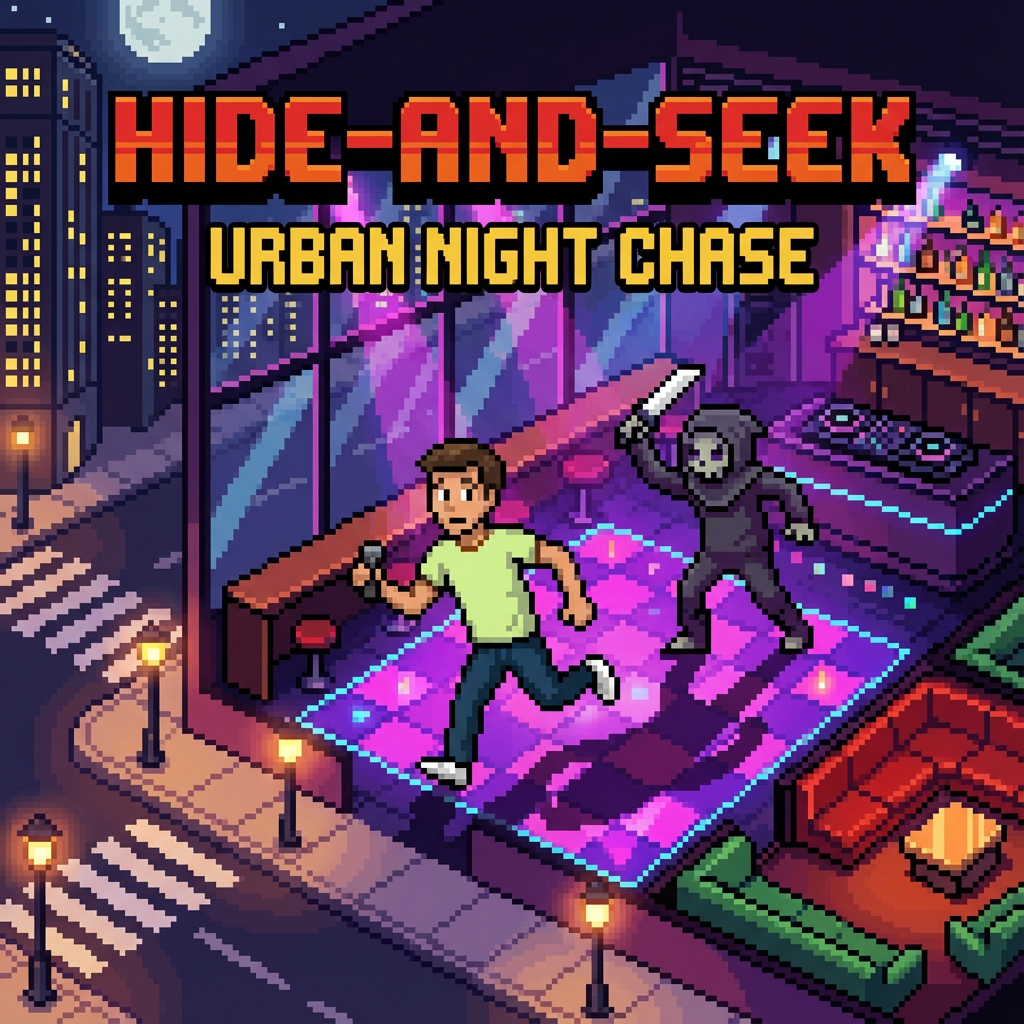
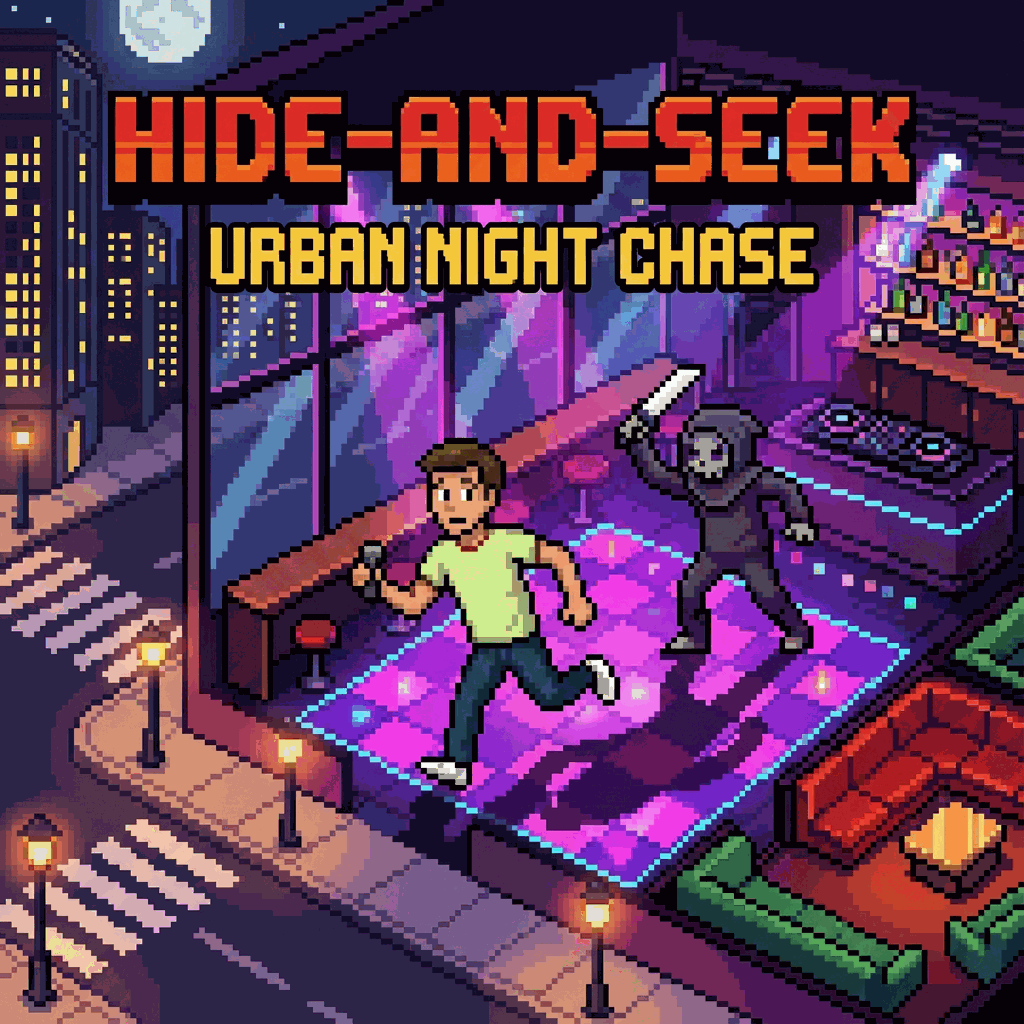
优化: 修复iOS音频, 压缩图片(节省6MB), 添加PWA缓存

diff --git a/js/game-audio-manager-v2.js b/js/game-audio-manager-v2.js
@@ -28,12 +28,16 @@ class GameAudioManager {
             sfx: null
         };
         
-        // 状态
+            // 状态
         this.isInitialized = false;
         this.isMuted = false;
         this.currentPhase = null;
         this.countdownInterval = null;
         this.audioUnlocked = false;
+        
+        // 页面可见性处理
+        this.handleVisibilityChange = this.handleVisibilityChange.bind(this);
+        document.addEventListener('visibilitychange', this.handleVisibilityChange);
         
         // 音量设置
         this.volumes = {
@@ -114,10 +118,25 @@ class GameAudioManager {
         const unlock = () => {
             if (this.audioUnlocked) return;
             
-            console.log('[音效管理器] 🔓 用户交互，解锁AudioContext');
+            console.log('[音效管理器] 🔓 用户交互，尝试解锁AudioContext');
             
+            // 1. 恢复上下文
             if (this.audioContext.state === 'suspended') {
-                this.audioContext.resume();
+                this.audioContext.resume().then(() => {
+                    console.log('[音效管理器] AudioContext resumed');
+                });
+            }
+            
+            // 2. 播放一个空的缓冲区（iOS 解锁的关键）
+            try {
+                const buffer = this.audioContext.createBuffer(1, 1, 22050);
+                const source = this.audioContext.createBufferSource();
+                source.buffer = buffer;
+                source.connect(this.audioContext.destination);
+                source.start(0);
+                console.log('[音效管理器] 空缓冲区播放成功 (iOS Unlock)');
+            } catch (e) {
+                console.warn('[音效管理器] 空缓冲区播放失败:', e);
             }
             
             this.audioUnlocked = true;
@@ -148,6 +167,29 @@ class GameAudioManager {
         document.addEventListener('click', unlock, { once: true });
     }
     
+    /**
+     * 处理页面可见性变化
+     */
+    handleVisibilityChange() {
+        if (!this.audioContext) return;
+        
+        if (document.hidden) {
+            // 切后台：挂起音频，节省资源并防止错误
+            if (this.audioContext.state === 'running') {
+                this.audioContext.suspend().then(() => {
+                    console.log('[音效管理器] 页面隐藏，音频挂起');
+                });
+            }
+        } else {
+            // 切回：恢复音频
+            if (this.audioContext.state === 'suspended') {
+                this.audioContext.resume().then(() => {
+                    console.log('[音效管理器] 页面可见，音频恢复');
+                });
+            }
+        }
+    }
+
     /**
      * 播放音频
      */
@@ -446,6 +488,9 @@ class GameAudioManager {
         if (this.countdownInterval) {
             clearInterval(this.countdownInterval);
         }
+        
+        // 移除事件监听
+        document.removeEventListener('visibilitychange', this.handleVisibilityChange);
         
         if (this.audioContext) {
             this.audioContext.close();

diff --git a/service-worker.js b/service-worker.js
@@ -1,0 +1,86 @@
+const CACHE_NAME = 'dbp-game-v1';
+const ASSETS_TO_CACHE = [
+  './',
+  './index.html',
+  './game-platform.html',
+  './js/game-audio-manager-v2.js',
+  './js/i18n.js',
+  './css/style.css', // 假设有
+  './images/map.png',
+  './images/hide-and-seek.png',
+  './audio/game-bgm.aac',
+  // 添加其他关键资源
+];
+
+// 安装 Service Worker
+self.addEventListener('install', (event) => {
+  event.waitUntil(
+    caches.open(CACHE_NAME)
+      .then((cache) => {
+        console.log('[Service Worker] Pre-caching offline page');
+        // 尝试缓存所有资源，忽略失败
+        return Promise.all(
+          ASSETS_TO_CACHE.map(url => {
+            return cache.add(url).catch(err => console.warn('Failed to cache:', url, err));
+          })
+        );
+      })
+  );
+  self.skipWaiting();
+});
+
+// 激活
+self.addEventListener('activate', (event) => {
+  event.waitUntil(
+    caches.keys().then((keyList) => {
+      return Promise.all(keyList.map((key) => {
+        if (key !== CACHE_NAME) {
+          console.log('[Service Worker] Removing old cache', key);
+          return caches.delete(key);
+        }
+      }));
+    })
+  );
+  self.clients.claim();
+});
+
+// 拦截请求
+self.addEventListener('fetch', (event) => {
+  // 只缓存 GET 请求
+  if (event.request.method !== 'GET') return;
+  
+  // 忽略 API 请求
+  if (event.request.url.includes('/api/')) return;
+
+  event.respondWith(
+    caches.match(event.request)
+      .then((response) => {
+        // 命中缓存，直接返回
+        if (response) {
+          return response;
+        }
+        
+        // 未命中，发起网络请求
+        return fetch(event.request).then(
+          (response) => {
+            // 检查响应是否有效
+            if (!response || response.status !== 200 || response.type !== 'basic') {
+              return response;
+            }
+
+            // 只有图片、音频、JS、CSS、HTML 才缓存
+            const url = event.request.url;
+            if (url.match(/\.(html|js|css|png|jpg|jpeg|gif|aac|mp3|json)$/i)) {
+                const responseToCache = response.clone();
+                caches.open(CACHE_NAME)
+                  .then((cache) => {
+                    cache.put(event.request, responseToCache);
+                  });
+            }
+
+            return response;
+          }
+        );
+      })
+  );
+});

diff --git a/game-platform.html b/game-platform.html
@@ -1,6 +1,26 @@
 <!DOCTYPE html>
 <html lang="en">
 <head>
+    <!-- 资源预加载 -->
+    <link rel="preload" href="js/i18n.js" as="script">
+    <link rel="preload" href="js/game-audio-manager-v2.js" as="script">
+    <link rel="preload" href="images/map.png" as="image">
+    
+    <!-- Service Worker 注册 -->
+    <script>
+        if ('serviceWorker' in navigator) {
+            window.addEventListener('load', () => {
+                navigator.serviceWorker.register('./service-worker.js')
+                    .then(registration => {
+                        console.log('ServiceWorker registration successful');
+                    })
+                    .catch(err => {
+                        console.log('ServiceWorker registration failed: ', err);
+                    });
+            });
+        }
+    </script>
+
     <script src="js/disable-console.js"></script>
     <script src="js/i18n.js"></script>
     <script src="js/game-audio-manager-v2.js"></script>

diff --git a/compress_assets.py b/compress_assets.py
@@ -1,0 +1,93 @@
+import os
+from PIL import Image
+import shutil
+
+# 配置
+MAX_SIZE_KB = 500  # 目标大小
+QUALITY = 80       # JPG 质量
+MAX_WIDTH = 1920   # 最大宽度限制
+
+def get_size_kb(path):
+    return os.path.getsize(path) / 1024
+
+def compress_image(file_path):
+    try:
+        file_size = get_size_kb(file_path)
+        if file_size < MAX_SIZE_KB:
+            return False
+
+        print(f"Compressing {file_path} ({file_size:.1f} KB)...")
+        
+        # 备份原文件
+        backup_path = file_path + ".bak"
+        if not os.path.exists(backup_path):
+            shutil.copy2(file_path, backup_path)
+
+        with Image.open(file_path) as img:
+            # 调整尺寸
+            if img.width > MAX_WIDTH:
+                ratio = MAX_WIDTH / img.width
+                new_height = int(img.height * ratio)
+                img = img.resize((MAX_WIDTH, new_height), Image.Resampling.LANCZOS)
+            
+            # 保存
+            ext = os.path.splitext(file_path)[1].lower()
+            if ext in ['.jpg', '.jpeg']:
+                # 如果是 RGBA，转换为 RGB (JPG 不支持透明)
+                if img.mode == 'RGBA':
+                    # 创建白色背景
+                    background = Image.new('RGB', img.size, (255, 255, 255))
+                    background.paste(img, mask=img.split()[3]) # 使用 alpha 通道作为 mask
+                    img = background
+                elif img.mode != 'RGB':
+                    img = img.convert('RGB')
+                    
+                img.save(file_path, quality=QUALITY, optimize=True)
+            elif ext == '.png':
+                # PNG 压缩比较难，尝试 optimize=True 和减少颜色数（如果是 P 模式）
+                # 对于大 PNG，如果不需要透明度，转 JPG 是最好的，但这里保守处理
+                if img.mode == 'RGBA':
+                    # 尝试量化为带透明度的 256 色 PNG (Pillow 9+ 支持)
+                    try:
+                        img = img.quantize(colors=256, method=2)
+                    except:
+                        pass
+                    img.save(file_path, optimize=True)
+                else:
+                    # 尝试转 P 模式减少颜色（有损但体积小）
+                    img = img.convert('P', palette=Image.ADAPTIVE, colors=256)
+                    img.save(file_path, optimize=True)
+            
+        new_size = get_size_kb(file_path)
+        print(f"Done. New size: {new_size:.1f} KB (Saved {file_size - new_size:.1f} KB)")
+        return True
+
+    except Exception as e:
+        print(f"Error compressing {file_path}: {e}")
+        return False
+
+def scan_and_compress(root_dir):
+    extensions = ['.jpg', '.jpeg', '.png']
+    count = 0
+    saved_kb = 0
+    
+    for root, dirs, files in os.walk(root_dir):
+        if '.git' in root:
+            continue
+            
+        for file in files:
+            ext = os.path.splitext(file)[1].lower()
+            if ext in extensions:
+                full_path = os.path.join(root, file)
+                original_size = get_size_kb(full_path)
+                
+                if compress_image(full_path):
+                    count += 1
+                    saved_kb += (original_size - get_size_kb(full_path))
+
+    print(f"\nTotal compressed: {count} images")
+    print(f"Total space saved: {saved_kb/1024:.2f} MB")
+
+if __name__ == '__main__':
+    # 扫描当前目录
+    scan_and_compress('.')
